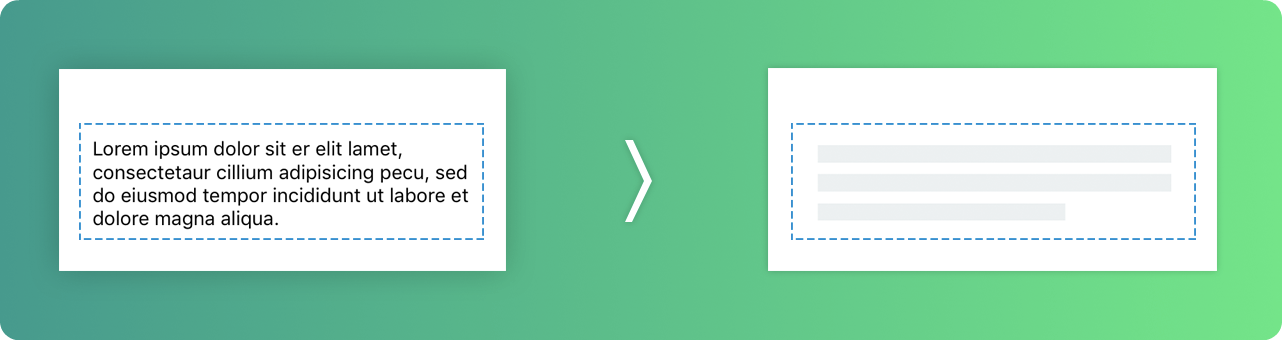
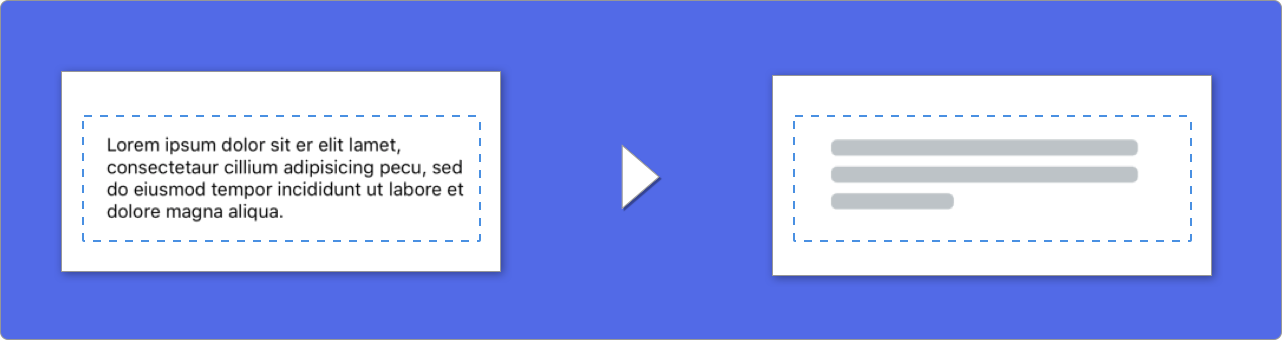
feat: New branding

diff --git a/README.md b/README.md
@@ -1,4 +1,4 @@
-![](Assets/header.jpg)
+![](Assets/header2.jpg)
 
 <p align="center">
     <a href="https://travis-ci.org/Juanpe/SkeletonView">
@@ -76,8 +76,6 @@ Enjoy it! 🙂
 ### 🔮 Example
 
 To run the example project, clone the repo and run `SkeletonViewExample` target.
-
-![](Assets/demoApp2.png)
 
 ## 📲 Installation
 
